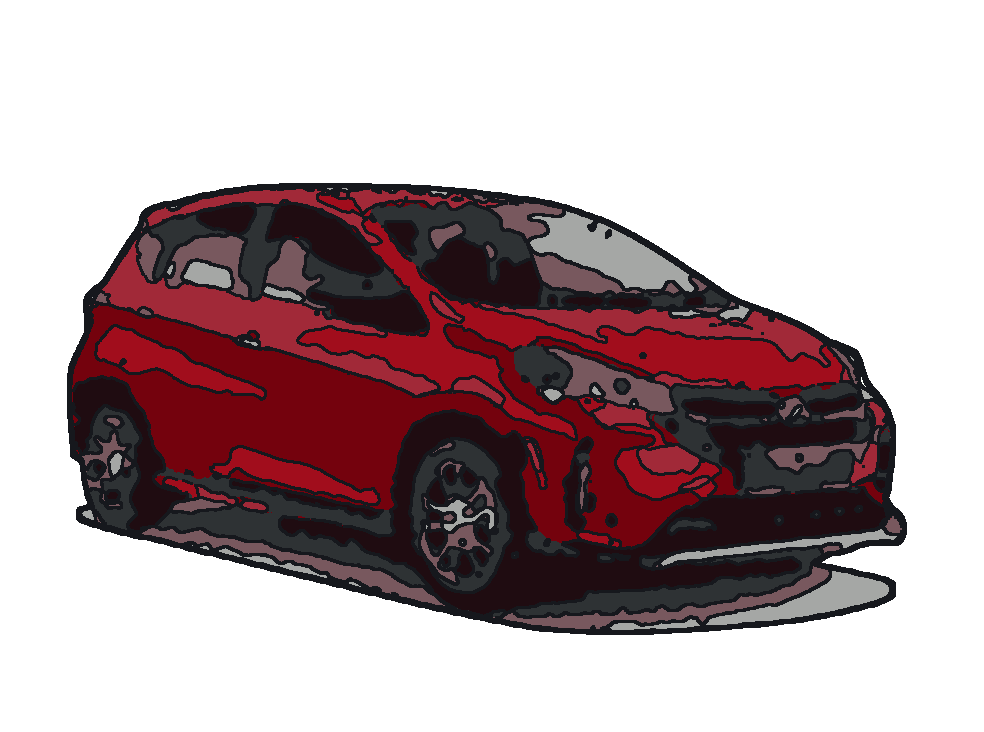
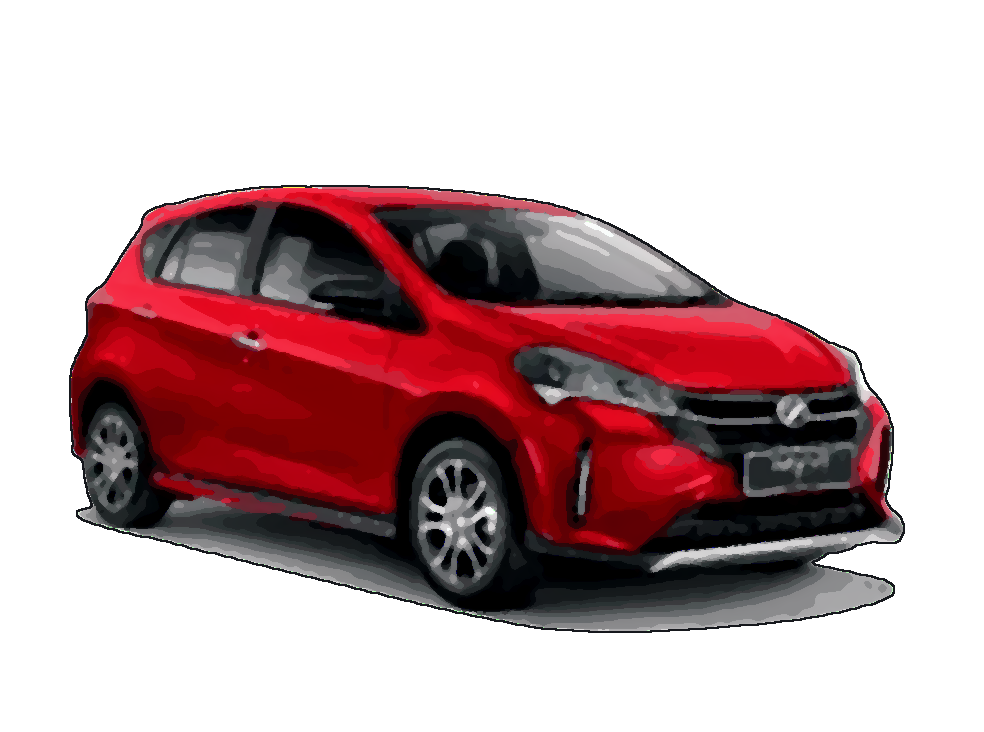
Skits: poster filter like the reference (no ink lines), dot grid on backgrounds
Claude-Session: https://claude.ai/code/session_01UTAgYwR2rwdTM3LGz9bzB5

Changed region(s): [[0.061, 0.2404, 0.9146, 0.8716]]

diff --git a/marketing/skits/tools/toon.py b/marketing/skits/tools/toon.py
@@ -1,48 +1,49 @@
-# Toon filter: python3 -I toon.py in.webp out.png  (white-background car photo -> cartoon cut-out)
+# Poster filter, matched to the reference skits (owner, 2026-11-22: the old ink-line toon "looks burnt"):
+# smooth flat bands of colour, bright + saturated, NO lines inside the car, one thin outline round it.
+# python3 -I tools/toon.py in.(webp|png|jpg) out.png [--scale 4]
 import sys
 from collections import deque
 import numpy as np
-from PIL import Image, ImageFilter
+from PIL import Image, ImageFilter, ImageEnhance
 
 src, out = sys.argv[1], sys.argv[2]
+S = int(sys.argv[sys.argv.index('--scale') + 1]) if '--scale' in sys.argv else 4
+
 raw = Image.open(src).convert('RGBA')
-S = 4
 raw = raw.resize((raw.width * S, raw.height * S), Image.LANCZOS)
 alpha = np.asarray(raw)[..., 3]
 im = Image.new('RGB', raw.size, (255, 255, 255)); im.paste(raw, mask=raw.split()[3])
-a = np.asarray(im).astype(int)
-h, w, _ = a.shape
+h, w = alpha.shape
 
-# background = near-white pixels connected to the border (flood fill), so white parts INSIDE the car stay
-near_white = (a.min(axis=2) > 225) & (a.max(axis=2) - a.min(axis=2) < 25)
-bg = np.zeros((h, w), bool)
-q = deque() if alpha.min() < 128 else deque((y, x) for y in range(h) for x in (0, w - 1)) + deque((y, x) for x in range(w) for y in (0, h - 1))
-while q:
-    y, x = q.popleft()
-    if 0 <= y < h and 0 <= x < w and not bg[y, x] and near_white[y, x]:
-        bg[y, x] = True
-        q.extend(((y + 1, x), (y - 1, x), (y, x + 1), (y, x - 1)))
-if alpha.min() < 128: bg = alpha < 128  # photo already cut out
-mask = Image.fromarray((~bg * 255).astype('uint8')).filter(ImageFilter.MinFilter(3)).filter(ImageFilter.MedianFilter(7))
+# cut-out: the photo's own transparency, else near-white connected to the border
+if alpha.min() < 128:
+    keep = alpha >= 128
+else:
+    a = np.asarray(im).astype(int)
+    nw = (a.min(axis=2) > 225) & (a.max(axis=2) - a.min(axis=2) < 25)
+    bg = np.zeros((h, w), bool)
+    q = deque([(y, x) for y in range(h) for x in (0, w - 1)] + [(y, x) for x in range(w) for y in (0, h - 1)])
+    while q:
+        y, x = q.popleft()
+        if 0 <= y < h and 0 <= x < w and not bg[y, x] and nw[y, x]:
+            bg[y, x] = True; q.extend(((y + 1, x), (y - 1, x), (y, x + 1), (y, x - 1)))
+    keep = ~bg
 
-# flat colours: smooth, then quantize to a small palette, push saturation a bit
-sm = im.filter(ImageFilter.MedianFilter(11)).filter(ImageFilter.ModeFilter(9)).filter(ImageFilter.MedianFilter(7))
-flat = sm.quantize(colors=10, method=Image.Quantize.MEDIANCUT).convert('RGB')
-f = np.asarray(flat).astype(float)
-grey = f.mean(axis=2, keepdims=True)
-f = np.clip(grey + (f - grey) * 1.25, 0, 255)
+# smooth away photo noise but keep shapes, then flatten into bands
+sm = im.filter(ImageFilter.MedianFilter(7)).filter(ImageFilter.MedianFilter(5))
+sm = ImageEnhance.Color(sm).enhance(1.35)
+sm = ImageEnhance.Brightness(sm).enhance(1.08)
+sm = ImageEnhance.Contrast(sm).enhance(1.08)
+flat = sm.quantize(colors=28, method=Image.Quantize.MEDIANCUT, dither=Image.Dither.NONE).convert('RGB')
+flat = flat.filter(ImageFilter.ModeFilter(5))
+flat = Image.blend(flat, sm, 0.18)  # a little of the photo back, so it reads as a real car
 
-# ink lines: edges of the flat image + the silhouette
-edges = flat.convert('L').filter(ImageFilter.FIND_EDGES)
-ink = (np.asarray(edges) > 45)
-ink = np.asarray(Image.fromarray((ink * 255).astype('uint8')).filter(ImageFilter.MaxFilter(3))) > 0
-m = np.asarray(mask) > 127
-outline = np.asarray(mask.filter(ImageFilter.MaxFilter(11))) > 127
-f[ink] = [22, 24, 29]
+m = Image.fromarray((keep * 255).astype('uint8')).filter(ImageFilter.MedianFilter(5))
+mk = np.asarray(m) > 127
+ring = (np.asarray(m.filter(ImageFilter.MaxFilter(5))) > 127) & ~mk
 rgba = np.zeros((h, w, 4), 'uint8')
-rgba[..., :3] = f.astype('uint8')
-rgba[..., 3] = (m * 255)
-ring = outline & ~m
+rgba[..., :3] = np.asarray(flat)
+rgba[..., 3] = mk * 255
 rgba[ring] = [22, 24, 29, 255]
 Image.fromarray(rgba).save(out)
 print('ok', w, h)

diff --git a/marketing/skits/STYLE.md b/marketing/skits/STYLE.md
@@ -40,7 +40,11 @@ Talking = mouth flaps between `talk` and the resting mouth every 3 frames.
 
 ## Scene
 - 1080x1920, 30 fps. Background `showroom()`: white wall, red band with the Drevo logo, spotlights.
-- Cars: a toon-filtered photo (`tools/toon.py`). Test photos may be a maker's press shot; anything
+- Cars: a POSTER-filtered photo (`tools/toon.py`): smooth flat colour bands, bright and saturated, NO ink
+  lines inside the car, one thin outline round it (owner, 2026-11-22: the ink-line toon "looks burnt").
+- Every drawn background ends with `dots()` (rig.mjs): the reference's fine dot grid, 7% black.
+- Close-ups of real things (carpet, headlight) use REAL photos run through the same poster filter, never
+  a drawing (owner, 2026-11-22: the drawn carpet/fish/lamp did not read). Test photos may be a maker's press shot; anything
   POSTED uses a photo we own or a seller's with their OK. Drawn cars carry no maker badge.
 - Captions: Outfit 700, 74px, white, 14px ink stroke, the punch word red (`<b>`), top 1400px,
   2-5 words, pop in over 5 frames. Never over the faces.
